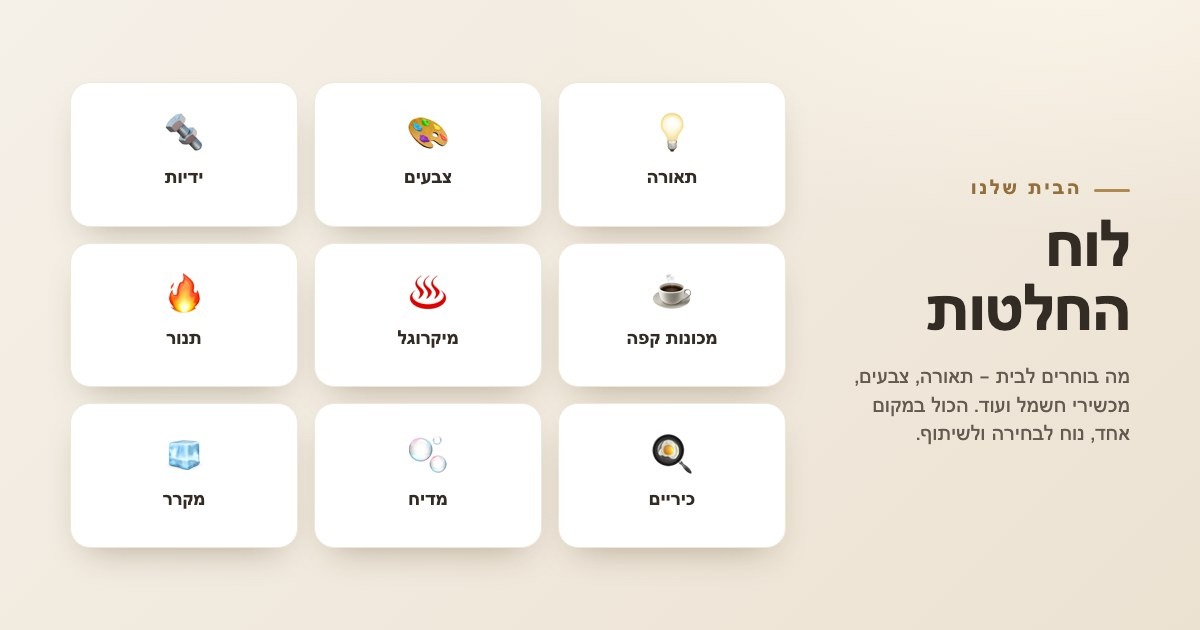
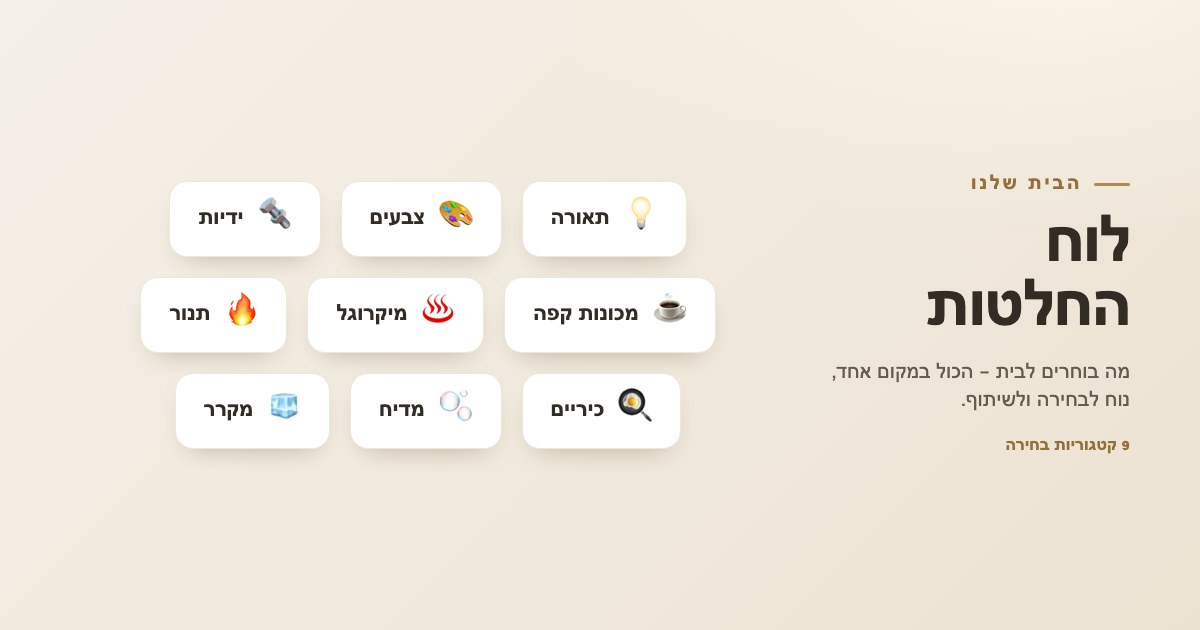
Make og.html generated from build.py's CATS list (scalable — chips wrap automatically, no manual redesign needed on new categories)

diff --git a/og.html b/og.html
@@ -10,26 +10,28 @@ body{font-family:"Heebo","Arial Hebrew","Arial",sans-serif;
 .kick::before{content:"";width:36px;height:3px;border-radius:3px;background:#b08a54}
 h1{font-size:64px;font-weight:800;color:#332c25;line-height:1.0;letter-spacing:-.02em;margin:20px 0 16px}
 .lead{font-size:21px;color:#645a4f;font-weight:500;line-height:1.35}
-.cats{flex:1;display:grid;grid-template-columns:repeat(3,1fr);grid-template-rows:repeat(3,1fr);gap:16px;height:466px}
-.tile{background:#fff;border:1px solid #efe7d9;border-radius:20px;box-shadow:0 16px 36px -18px rgba(70,50,20,.4);
-  display:flex;flex-direction:column;align-items:center;justify-content:center;gap:10px}
-.tile .e{font-size:40px;line-height:1}
-.tile .l{font-size:19px;font-weight:700;color:#332c25}
+.cnt{margin-top:22px;font-size:17px;color:#946f3c;font-weight:700}
+.cats{flex:1;display:flex;flex-wrap:wrap;align-content:center;justify-content:center;gap:20px;height:466px}
+.chip{background:#fff;border:1px solid #efe7d9;border-radius:18px;box-shadow:0 12px 28px -16px rgba(70,50,20,.4);
+  padding:20px 28px;display:flex;align-items:center;gap:14px}
+.chip .e{font-size:34px;line-height:1}
+.chip .l{font-size:22px;font-weight:700;color:#332c25;white-space:nowrap}
 </style></head><body>
 <div class="txt">
   <div class="kick">הבית שלנו</div>
   <h1>לוח החלטות</h1>
-  <div class="lead">מה בוחרים לבית — תאורה, צבעים, מכשירי חשמל ועוד. הכול במקום אחד, נוח לבחירה ולשיתוף.</div>
+  <div class="lead">מה בוחרים לבית — הכול במקום אחד, נוח לבחירה ולשיתוף.</div>
+  <div class="cnt">9 קטגוריות בחירה</div>
 </div>
 <div class="cats">
-  <div class="tile"><span class="e">💡</span><span class="l">תאורה</span></div>
-  <div class="tile"><span class="e">🎨</span><span class="l">צבעים</span></div>
-  <div class="tile"><span class="e">🔩</span><span class="l">ידיות</span></div>
-  <div class="tile"><span class="e">☕</span><span class="l">מכונות קפה</span></div>
-  <div class="tile"><span class="e">♨</span><span class="l">מיקרוגל</span></div>
-  <div class="tile"><span class="e">🔥</span><span class="l">תנור</span></div>
-  <div class="tile"><span class="e">🍳</span><span class="l">כיריים</span></div>
-  <div class="tile"><span class="e">🫧</span><span class="l">מדיח</span></div>
-  <div class="tile"><span class="e">🧊</span><span class="l">מקרר</span></div>
+  <div class="chip"><span class="e">💡</span><span class="l">תאורה</span></div>
+  <div class="chip"><span class="e">🎨</span><span class="l">צבעים</span></div>
+  <div class="chip"><span class="e">🔩</span><span class="l">ידיות</span></div>
+  <div class="chip"><span class="e">☕</span><span class="l">מכונות קפה</span></div>
+  <div class="chip"><span class="e">♨</span><span class="l">מיקרוגל</span></div>
+  <div class="chip"><span class="e">🔥</span><span class="l">תנור</span></div>
+  <div class="chip"><span class="e">🍳</span><span class="l">כיריים</span></div>
+  <div class="chip"><span class="e">🫧</span><span class="l">מדיח</span></div>
+  <div class="chip"><span class="e">🧊</span><span class="l">מקרר</span></div>
 </div>
 </body></html>

diff --git a/build.py b/build.py
@@ -1079,4 +1079,48 @@ picks=out.replace('<meta property="og:url" content="'+BASE+'">',
 picks=picks.replace('<head>\n','<head>\n<base href="'+BASE+'">\n',1)
 os.makedirs(os.path.join(REPO,"picks"),exist_ok=True)
 open(os.path.join(REPO,"picks","index.html"),"w",encoding="utf-8").write(picks)
-print("board built | items",len(DATA),"| bytes",len(out),"| + /picks/ fresh copy")
+
+# --- Social-preview card (og.html → screenshot to og.png/og.jpg) ---
+# Scalable by design: chips are generated FROM the live CATS list and wrap onto
+# as many rows as needed, so adding/removing a category never requires a manual
+# redesign. After editing CATS, just rerun this script, then regenerate the images:
+#   python3 build.py && "/Applications/Google Chrome.app/Contents/MacOS/Google Chrome" \
+#     --headless --disable-gpu --screenshot=og.png --window-size=1200,630 \
+#     --hide-scrollbars "file://$(pwd)/og.html" && \
+#   python3 -c "from PIL import Image; Image.open('og.png').convert('RGB').save('og.jpg', quality=88)"
+og_cats=[c for c in CATS if c["key"]!="all"]
+og_chips="\n  ".join(f'<div class="chip"><span class="e">{c["icon"]}</span><span class="l">{c["label"]}</span></div>' for c in og_cats)
+og_tpl=r'''<!doctype html><html lang="he" dir="rtl"><head><meta charset="utf-8">
+<style>
+*{margin:0;box-sizing:border-box}
+html,body{width:1200px;height:630px;overflow:hidden}
+body{font-family:"Heebo","Arial Hebrew","Arial",sans-serif;
+  background:radial-gradient(900px 500px at 88% -10%,#fbf5e9,rgba(0,0,0,0) 60%),linear-gradient(135deg,#f5f0e8,#ece2d2);
+  display:flex;align-items:center;gap:44px;padding:56px 70px}
+.txt{width:300px;flex-shrink:0}
+.kick{font-size:20px;font-weight:700;letter-spacing:.14em;color:#946f3c;text-transform:uppercase;display:flex;align-items:center;gap:12px}
+.kick::before{content:"";width:36px;height:3px;border-radius:3px;background:#b08a54}
+h1{font-size:64px;font-weight:800;color:#332c25;line-height:1.0;letter-spacing:-.02em;margin:20px 0 16px}
+.lead{font-size:21px;color:#645a4f;font-weight:500;line-height:1.35}
+.cnt{margin-top:22px;font-size:17px;color:#946f3c;font-weight:700}
+.cats{flex:1;display:flex;flex-wrap:wrap;align-content:center;justify-content:center;gap:20px;height:466px}
+.chip{background:#fff;border:1px solid #efe7d9;border-radius:18px;box-shadow:0 12px 28px -16px rgba(70,50,20,.4);
+  padding:20px 28px;display:flex;align-items:center;gap:14px}
+.chip .e{font-size:34px;line-height:1}
+.chip .l{font-size:22px;font-weight:700;color:#332c25;white-space:nowrap}
+</style></head><body>
+<div class="txt">
+  <div class="kick">הבית שלנו</div>
+  <h1>לוח החלטות</h1>
+  <div class="lead">מה בוחרים לבית — הכול במקום אחד, נוח לבחירה ולשיתוף.</div>
+  <div class="cnt">__COUNT__ קטגוריות בחירה</div>
+</div>
+<div class="cats">
+  __CHIPS__
+</div>
+</body></html>
+'''
+og_html=og_tpl.replace("__CHIPS__",og_chips).replace("__COUNT__",str(len(og_cats)))
+open(os.path.join(REPO,"og.html"),"w",encoding="utf-8").write(og_html)
+
+print("board built | items",len(DATA),"| bytes",len(out),"| + /picks/ fresh copy | og.html:",len(og_cats),"cats")
